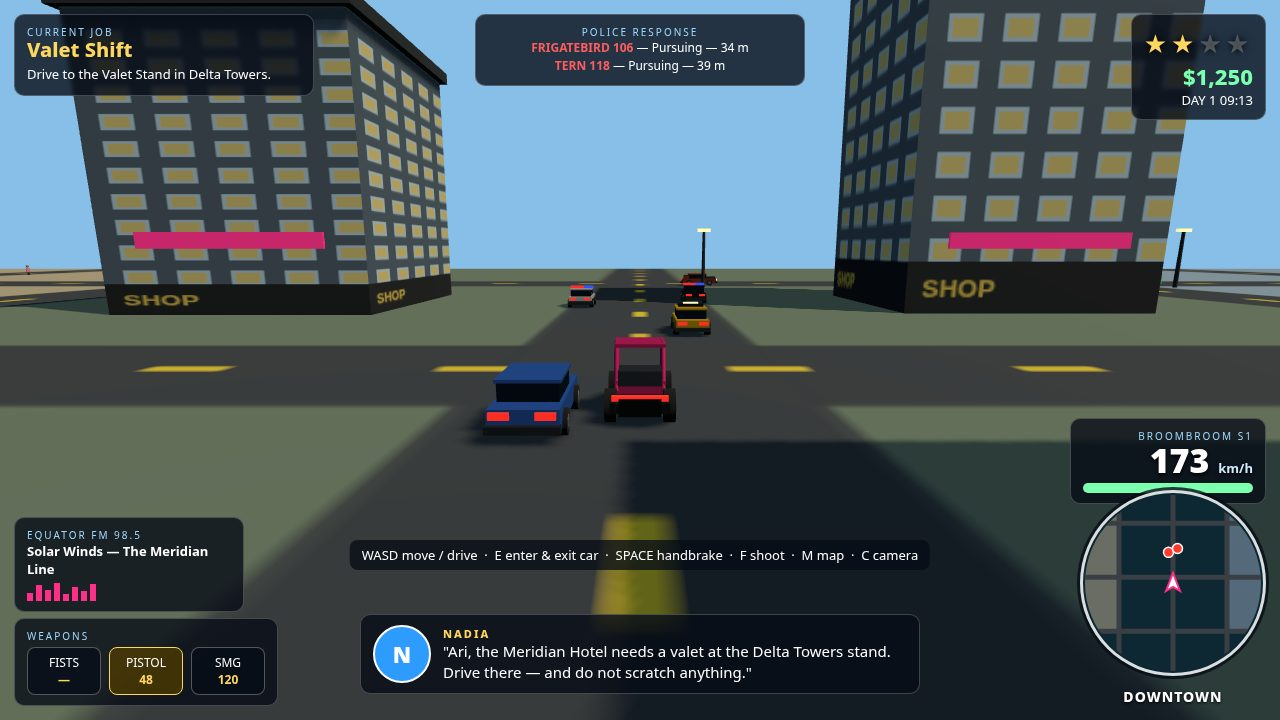
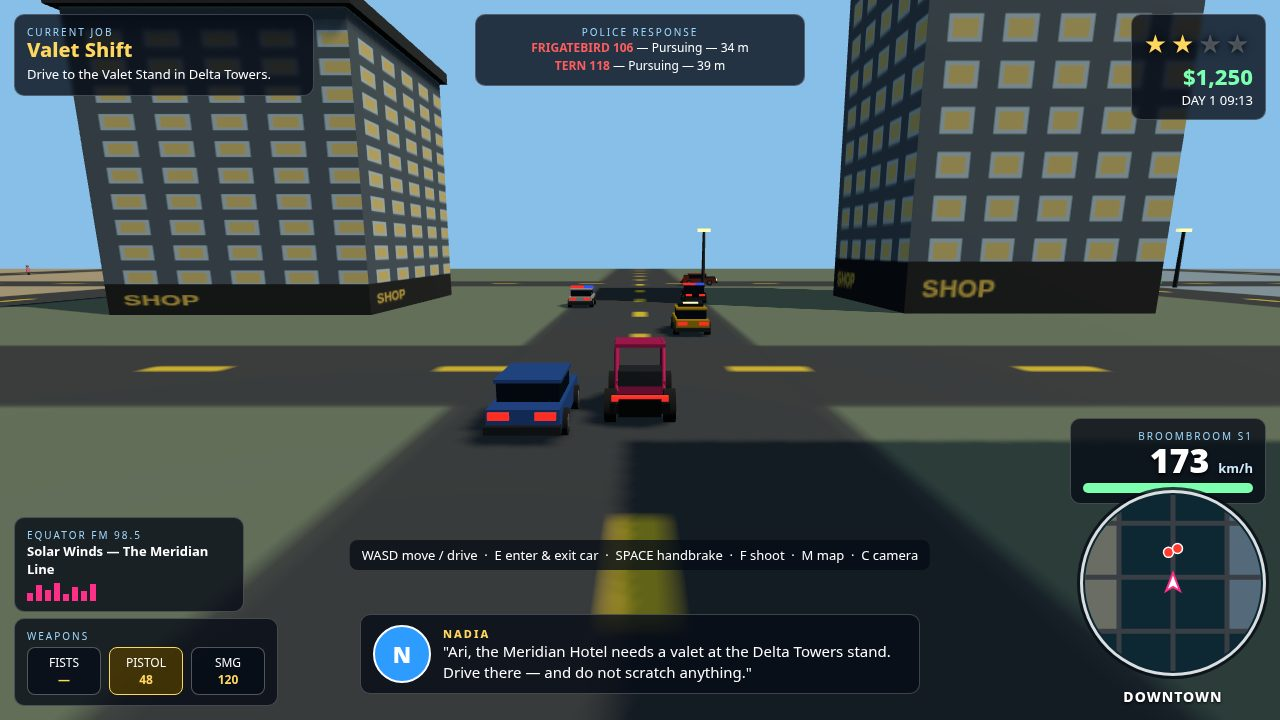
Equator Drive round 3: HQ fix round — remove floating sign bars, night readability
- city.js: facade signage bands removed (magenta bars on cover,
  green bar on night); seeded draw kept so the RNG stream and all
  prop/parked-car positions are byte-identical
- main.js player: shoulders, forward arms + hands, visible pistol
  with barrel, pale chest stripe — reads as a person, not a capsule
- main.js night shot: 3 warm streetlight pools on the ground
  (guard line, street, foreground) so the night ground reads
- Shots 2 and 4 untouched

Changed region(s): [[0.7188, 0.3056, 0.9062, 0.3667], [0.0938, 0.3056, 0.25, 0.3667]]

diff --git a/game/src/main.js b/game/src/main.js
@@ -98,13 +98,35 @@ function makePlayerMesh() {
   const jacket = new THREE.MeshStandardMaterial({ color: 0xff2e88, roughness: 0.8 });
   const skin = new THREE.MeshStandardMaterial({ color: 0xc98a5a, roughness: 0.8 });
   const pants = new THREE.MeshStandardMaterial({ color: 0x2a2f38, roughness: 0.95 });
+  const gunmetal = new THREE.MeshStandardMaterial({ color: 0x1a1d22, roughness: 0.4, metalness: 0.6 });
   const body = new THREE.Mesh(new THREE.CylinderGeometry(0.22, 0.28, 0.85, 8), jacket);
   body.position.y = 0.95; body.castShadow = true; g.add(body);
+  // Pale chest stripe so the torso reads as a jacket at night, not a capsule.
+  const stripe = new THREE.Mesh(new THREE.CylinderGeometry(0.245, 0.26, 0.09, 8),
+    new THREE.MeshStandardMaterial({ color: 0xffe3ef, roughness: 0.6 }));
+  stripe.position.y = 1.18; g.add(stripe);
   const head = new THREE.Mesh(new THREE.SphereGeometry(0.21, 10, 8), skin);
   head.position.y = 1.62; head.castShadow = true; g.add(head);
   const cap = new THREE.Mesh(new THREE.CylinderGeometry(0.23, 0.23, 0.08, 10),
     new THREE.MeshStandardMaterial({ color: 0x111318, roughness: 0.7 }));
   cap.position.y = 1.8; g.add(cap);
+  // Shoulders + arms angled forward, hands together at the front: the
+  // silhouette reads as a person holding a weapon, from any angle.
+  for (const sx of [-0.27, 0.27]) {
+    const shoulder = new THREE.Mesh(new THREE.SphereGeometry(0.11, 8, 6), jacket);
+    shoulder.position.set(sx, 1.33, 0); g.add(shoulder);
+    const arm = new THREE.Mesh(new THREE.CylinderGeometry(0.07, 0.06, 0.52, 6), jacket);
+    arm.position.set(sx * 0.92, 1.08, 0.16);
+    arm.rotation.x = -0.85; g.add(arm);
+    const hand = new THREE.Mesh(new THREE.SphereGeometry(0.07, 6, 5), skin);
+    hand.position.set(sx * 0.7, 0.88, 0.36); g.add(hand);
+  }
+  // Pistol held forward at chest height, barrel toward the muzzle flash.
+  const gun = new THREE.Mesh(new THREE.BoxGeometry(0.09, 0.13, 0.5), gunmetal);
+  gun.position.set(0.1, 1.28, 0.45); g.add(gun);
+  const barrel = new THREE.Mesh(new THREE.BoxGeometry(0.05, 0.05, 0.2),
+    new THREE.MeshStandardMaterial({ color: 0x8a94a0, roughness: 0.3, metalness: 0.8 }));
+  barrel.position.set(0.1, 1.3, 0.76); g.add(barrel);
   for (const sx of [-0.12, 0.12]) {
     const leg = new THREE.Mesh(new THREE.CylinderGeometry(0.09, 0.09, 0.55, 6), pants);
     leg.position.set(sx, 0.28, 0); g.add(leg);
@@ -574,6 +596,23 @@ function setupShot() {
     missions.jobIndex = 5;
     missions.startJob();
     hud.bannerTimer = 0.4;
+    // Streetlight pools on the ground so the night foreground reads:
+    // fixed warm circles along the street, under the guard line, and in
+    // the foreground by the camera. Deterministic, shot-only.
+    const poolCanvas = document.createElement('canvas');
+    poolCanvas.width = poolCanvas.height = 128;
+    const pctx = poolCanvas.getContext('2d');
+    const grad = pctx.createRadialGradient(64, 64, 4, 64, 64, 64);
+    grad.addColorStop(0, 'rgba(255,190,90,0.5)');
+    grad.addColorStop(0.6, 'rgba(255,170,70,0.18)');
+    grad.addColorStop(1, 'rgba(255,170,70,0)');
+    pctx.fillStyle = grad; pctx.fillRect(0, 0, 128, 128);
+    const poolMat = new THREE.MeshBasicMaterial({ map: new THREE.CanvasTexture(poolCanvas), transparent: true, blending: THREE.AdditiveBlending, depthWrite: false });
+    for (const [px, pz, pr] of [[120, 147, 7], [112, 168, 6], [100, 162, 6]]) {
+      const pool = new THREE.Mesh(new THREE.CircleGeometry(pr, 24), poolMat);
+      pool.rotation.x = -Math.PI / 2; pool.position.set(px, 0.03, pz);
+      scene.add(pool);
+    }
     camera.position.set(104, 3.2, 170);
     camera.lookAt(124, 1.3, 142);
   }

diff --git a/game/src/city.js b/game/src/city.js
@@ -111,6 +111,9 @@ export function buildCity(scene) {
   group.add(ground);
 
   const roofMat = new THREE.MeshStandardMaterial({ color: 0x2c313a, roughness: 0.9 });
+  // Signage bands were removed (solid color bands read as floating bars on
+  // the facades); the palette stays so the seeded draw below keeps the
+  // stream — and every prop / parked car after it — byte-identical.
   const signMats = ['#ff2e88', '#2e9bff', '#ffb02e', '#7dffb0', '#ff5d5d'].map(
     (c) => new THREE.MeshStandardMaterial({ color: c, emissive: c, emissiveIntensity: 0.3 })
   );
@@ -146,9 +149,7 @@ export function buildCity(scene) {
       box(w + 1.2, 1, d + 1.2, roofMat, cx + ox, h + 0.5, cz + oz, group);
       // Roof plant / AC box so the roofline is not a flat slab from above.
       box(rng.range(3, 6), 1.6, rng.range(3, 6), roofMat, cx + ox + 4, h + 1.8, cz + oz - 3, group);
-      // Signage band low on the front face, flush so it never floats.
-      const sign = box(Math.min(w * 0.7, 14), 1.2, 0.3, rng.pick(signMats), cx + ox, Math.min(h - 3, 5.5), cz + oz + d / 2 + 0.15, group);
-      sign.castShadow = false;
+      rng.pick(signMats); // stream-preserving draw; no band mesh is built
       colliders.push({ x: cx + ox, z: cz + oz, hw: w / 2 + 0.5, hd: d / 2 + 0.5 });
     }
   }
